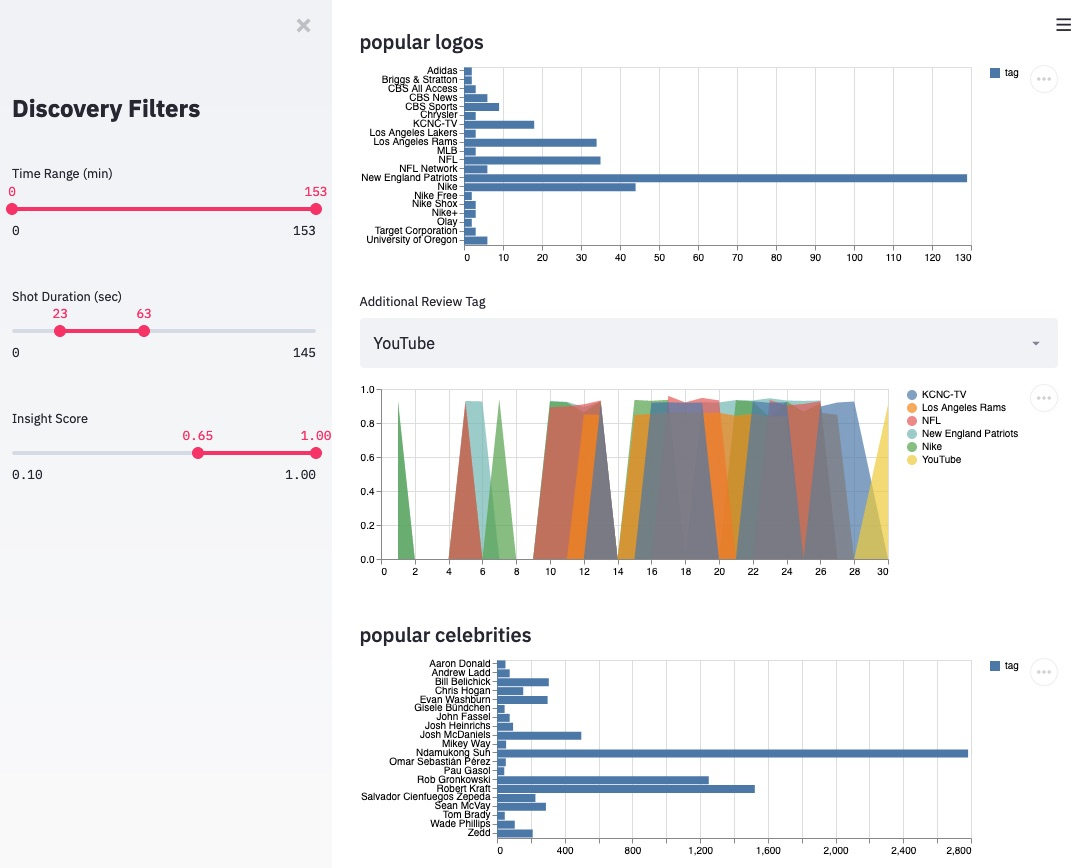
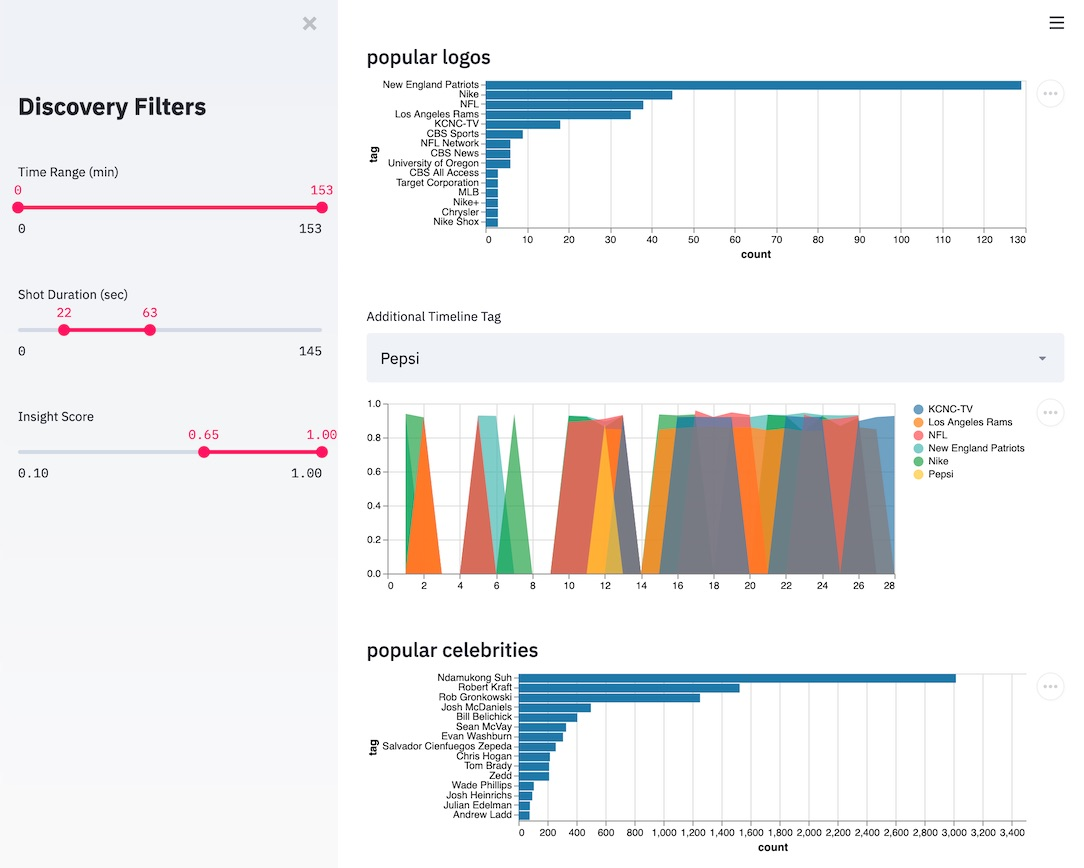
update for argument input, teaser image

diff --git a/app/timed.py b/app/timed.py
@@ -33,7 +33,6 @@ import json
 
 import altair as alt
 
-data_dir = path.join("..", "results")
 version_path = path.join("..", "_version.py")
 re_issue = re.compile(r"[^0-9A-Za-z]+")
 presence_bars = False  # toggle to show presence indicators as a graph
@@ -50,7 +49,8 @@ TOP_LINE_N = 5
 NLP_FILTER = 0.025
 SAMPLE_N = 250
 
-def main_page():
+def main_page(data_dir=None, media_file=None):
+    """Main page for execution"""
     # read in version information
     version_dict = {}
     with open(version_path) as file:
@@ -60,7 +60,15 @@ def main_page():
     ux_report = st.empty()
     ux_progress = st.empty()
 
-    df = data_load("data_bundle", True)
+    if data_dir is None:
+        data_dir = path.join(path.dirname(version_path), "results")
+    if media_file is None:
+        media_file = path.join(data_dir, "videohd.mp4")
+
+    df = data_load("data_bundle", data_dir, True)
+    if df is None:
+        st.error("No data could be loaded, please check configuration options.")
+        return
     df_live = draw_sidebar(df)
 
     # Create the runtime info
@@ -183,7 +191,7 @@ def main_page():
 
 
 @st.cache(suppress_st_warning=True, allow_output_mutation=True)
-def data_load(stem_datafile, allow_cache=True):
+def data_load(stem_datafile, data_dir, allow_cache=True):
     """Because of repetitive loads in streamlit, a method to read/save cache data according to modify time."""
 
     # generate a checksum of the input files
@@ -192,6 +200,9 @@ def data_load(stem_datafile, allow_cache=True):
     for filepath in Path(data_dir).rglob(f'*.csv*'):
         list_files.append(filepath)
         m.update(str(filepath.stat().st_mtime).encode())
+    if not list_files:
+        logger.critical(f"Sorry, no flattened files found, check '{data_dir}'...")
+        return None 
 
     # NOTE: according to this article, we should use 'feather' but it has depedencies, so we use pickle
     # https://towardsdatascience.com/the-best-format-to-save-pandas-data-414dca023e0d
@@ -366,10 +377,30 @@ def draw_sidebar(df, sort_list=None):
     # otherwise apply sorting right now
     return df_filter.sort_values(by=[v[0] for v in sort_list], 
                                        ascending=[v[1] for v in sort_list])
-    
 
+def main(args=None):
+    import argparse
+    
+    parser = argparse.ArgumentParser(
+        description="""A script run the data explorer.""",
+        epilog="""Process TBD...
+            # specify the input media file 
+            streamlit run timed.py -- -m video.mp4
+    """, formatter_class=argparse.RawTextHelpFormatter)
+    submain = parser.add_argument_group('main execution')
+    submain.add_argument('-d', '--data_dir', dest='data_dir', type=str, default='../results', help='specify the source directory for flattened metadata')
+    submain.add_argument('-m', '--media_file', dest='media_file', type=str, default='', help='specific media file for extracting clips (empty=no clips)')
+
+    if args is None:
+        config_defaults = vars(parser.parse_args())
+    else:
+        config_defaults = vars(parser.parse_args(args))
+    print(f"Runtime Configuration {config_defaults}")
+
+    main_page(**config_defaults)
 
 
 # main block run by code
 if __name__ == '__main__':
-    main_page()
+    """ Main page for streamlit timed data explorer """
+    main()

diff --git a/_version.py b/_version.py
@@ -1,5 +1,5 @@
 # -*- coding: utf-8 -*-
-__version__ = "0.3.1"
+__version__ = "0.3.2"
 __package__ = 'metadata-flatten'
 __description__ = "Metadata Flattening Service"
 __copyright__ = "Copyright AT&T Services and Warner Media 2020"

diff --git a/app/README.md b/app/README.md
@@ -45,24 +45,35 @@ python -m spacy download en_core_web_sm
 # Execution and Deployment
 
 To execute, you will need to bring your own pre-processed flattened metadata and
-specifically place them into the `../results` directory.
+specifically place them into the `data_dir` directory.  You can configure 
+this option from the command-line when the application is run. *(v 0.3.2)*
 
-* Currently, the app expects these to be installed a directory called `results` 
-  in the parent of this directory (e.g. ../results).  It also expects these files
+To execute, change to this directory and run the below command.  Please verify that 
+all arguments must be after the 
+double-dash to guarantee that they are sent to this app and not to streamlit.
+
+```shell
+streamlit run timed.py -- <options>
+
+(options below)
+  -d DATA_DIR, --data_dir DATA_DIR
+                        specify the source directory for flattened metadata
+  -m MEDIA_FILE, --media_file MEDIA_FILE
+                        specific media file for extracting clips (empty=no clips)
+```
+
+* Currently, the app expects these to be installed in `data_dir`; by default this is
+  a directory called `results` in the parent of this directory (e.g. ../results).  
+* The app expects files in the `data_dir`
   to be `.csv` or `.csv.gz` and the output of the `main.py` script in the 
   parent directory.  
 * Upon completion of [data ingestion](#Data-Ingest), the application will
   create a compressed data file in this directory.  If you delete this file or the directory
   is not accessble, the app may not function properly or will need to regenerate it.
 
-*NOTE* All input files (by file extension) under the `results` directory will be 
+*NOTE* All input files (by file extension) under the `data_dir` directory will be 
 ingested, so make note that only relevant file from a single asset are included.
 
-To execute, change to this directory and run the below command.
-
-```shell
-streamlit run timed.py
-```
 
 ## Data Ingest
 

diff --git a/README.md b/README.md
@@ -138,6 +138,10 @@ Job complete in 4m58.265737799s
 
 ## 0.3
 
+### 0.3.2
+* argument input capabilities for exploration app
+* sort histograms in exploration app by count not alphabet
+
 ### 0.3.1
 * browsing bugfixes for exploration application
 
